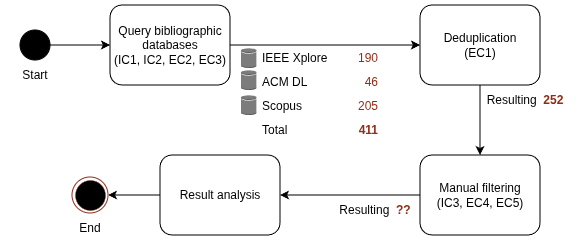
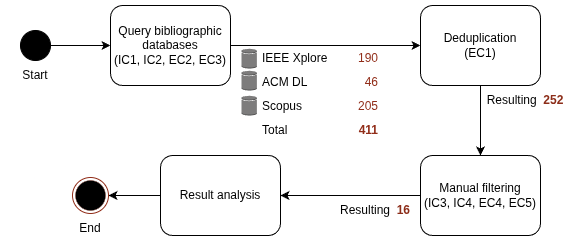
fixed FR's suggestions PDIS delivery

diff --git a/document/body/chapter3.tex b/document/body/chapter3.tex
@@ -1,7 +1,7 @@
 \chapter{State Of The Art} \label{chap:ch3}
 
 In this chapter, we analyse the current state of the art described
-by the documents gathered in the literature review (Chapter \ref{chap:ch2}).
+by the documents gathered in the literature review (Chapter~\ref{chap:ch2}).
 We will review different approaches and techniques applied in Edge and \ac{IoT}
 environments to achieve a better performance when executing \ac{ML} inference 
 tasks. In particular,
@@ -13,27 +13,31 @@ communication methods.
     
 \section{System Network Layouts} \label{sec:se31}
 
+Firstly, we will analyse how the proposed frameworks make use of different system 
+layouts to achieve collaborative inference in edge and far-edge devices. We will
+classify them into two main categories, according to their system layout:
+Model Bi-Partitioning and Model Local Partitioning.
 
-\subsection{Multi-Model Partitioning} \label{sec:se311}
+% \subsection{Multi-Model Partitioning} \label{sec:se311}
 
-Rather than focusing on partitioning a single monolithic model, these
-frameworks deploy differently sized \ac{ML} models throughout several
-hierarchies of devices according to their computational capabilities (i.e.
-deploying smaller models closer to the edge and bigger and more capable
-ones closer to the cloud).
+% Rather than focusing on partitioning a single monolithic model, these
+% frameworks deploy differently sized \ac{ML} models throughout several
+% hierarchies of devices according to their computational capabilities (i.e.
+% deploying smaller models closer to the edge and bigger and more capable
+% ones closer to the cloud).
 
-\begin{description}[style=unboxed, leftmargin=1cm, font=\bfseries]
+% \begin{description}[style=unboxed, leftmargin=1cm, font=\bfseries]
 
-    \item[N/A] No articles were reviewed yet in this category.
+%     \item[N/A] No articles were reviewed yet in this category.
 
-\end{description}
+% \end{description}
 
 
 \subsection{Model Bi-Partitioning} \label{sec:se312}
 
-The approaches reviewed in this category are based on processing an initial 
-portion of the inference task on devices closer to the end-user and the 
-remaining portion on one or more devices on a higher layer, 
+The approaches reviewed in this category divide the work load in two, deploying 
+the initial portion of the inference task to devices closer to the end-user and 
+the remaining portion to one or more devices on a higher hierarchical layer, 
 further away from the end-user device.
 
 \begin{description}[style=unboxed, leftmargin=1cm, font=\bfseries]
@@ -47,7 +51,9 @@ further away from the end-user device.
     framework to estimate the time needed for each device on each step of the 
     model. The framework then employs a differentiable search algorithm 
     to find optimal inference strategies for allocating \ac{DNN} tasks to the 
-    computing devices.   
+    computing devices. Even though this framework deploys successfully a
+    partitioned model between an end device and an edge server, it is limited
+    to two-device networks.  
 
     \item[DINA \cite{t_mohammed_distributed_2020}]
     is a framework that relies on fog nodes to partition inference tasks into
@@ -124,6 +130,7 @@ to the cloud.
 
 \end{description}
 
+%TODO acabar conclusão de system layouts (incluir ref à tabela)
 To better standardize the following synthesis, we will recognize previously 
 referred user, end devices and similarly constrained devices as our definition 
 of far-edge devices. Likewise, the intermediate devices, placed higher in the
@@ -158,10 +165,10 @@ CAS \cite{wang_context-aware_2021} & Model Local Partitioning & Edge Devices & G
 
 In a distributed system, the orchestration and management of every node of a
 given network is of utmost importance. Since we are reviewing collaborative
-frameworks, for the next subsection, we will be analysing how the presented 
-frameworks strategize the scheduling and communications between their devices.
-Furthermore, the frameworks will be separated into two classes, heuristical 
-and reinforcement learning scheduling approaches.
+frameworks, we will be analysing how the presented frameworks strategize the 
+scheduling and communications between their devices. Furthermore, the frameworks 
+will be separated into two classes, heuristical and reinforcement learning 
+scheduling approaches.
 
 \subsection{Heuristical Approach} \label{sec:se321}
 
@@ -181,7 +188,8 @@ chosen and how the network is managed.
     even if lighter on the data. All the devices' constraints
     are gathered in a previous stage and taken into account. Network conditions
     are monitored in real-time, allowing the framework to strive for an optimal
-    partitioning and deployment, adapting to network changes. 
+    partitioning and deployment, adapting to network changes, such as device power 
+    and network bandwidth fluctuations, as well as user requirement of latency. 
 
     \item [CoFANN \cite{tran-van_cofann_2025}]
     is a minimalist framework, in regards to network management, taking only
@@ -190,9 +198,9 @@ chosen and how the network is managed.
     created from
     factors in the inference process. To minimize the data transfer, the initial
     raw data is processed in the end device and condensed as an intermediate 
-    feature tensor to be wirelessly transmitted to an edge server. The result is
-    then sent back to the end device to be logged. 
-    %TODO rever separação layout/flow vs network management 
+    feature tensor to be wirelessly transmitted to an edge server.
+    %TODO rever separação layout/flow vs network management
+    % FR não comentou
 
 
     \item[DINA \cite{t_mohammed_distributed_2020}]
@@ -207,10 +215,12 @@ chosen and how the network is managed.
     relies on device placement to assign the model partitions to the devices.
     The feature extractor segment of the \ac{CNN} models is distributed along the
     network, while the classifier, as it requires less computation, is assigned to
-    a singular device. Intermediate inference results are exchanged between devices
-    through a wireless link, using a "OFDMA-based wireless transmission model".
+    a singular device, given it has sufficient available memory for the corresponding
+    weights. Intermediate inference results are exchanged between devices
+    through a wireless link, using a "OFDMA\footnote{Orthogonal Frequency-Division 
+    Multiple Access}-based wireless transmission model",
+    allowing for a higher throughput.
     This solution assumes that the pipeline supports asynchronous communication.
-    %rever OFDMA (citação/sigla)
 
     \item[\textcite{w_miao_adaptive_2020}]
     minimizes the inference time relying on estimations of the computing time
@@ -241,6 +251,8 @@ to a greater extent.
 
 \end{description}
 
+%TODO conclusões de network management (c/ tabela)
+
 \begin{table}[ht]
 \centering
 \begin{tabularx}{\textwidth}{|l|Y|Y|Y|Y|}
@@ -267,10 +279,11 @@ DINA \cite{t_mohammed_distributed_2020} & Heuristical & Inference Time, Resource
 \section{Final Remarks}
 
 %TODO conclusões gerais do SOTA 
+%TODO incluir problema/limitação de cada framework (na tabela?)
 
 \begin{table}[ht]
 \centering
-\begin{tabularx}{\textwidth}{|l|X|X|}
+\begin{tabularx}{\textwidth}{|p{2.5cm}|X|X|}
 \hline
 \textbf{Strategy} & \multicolumn{1}{c|}{\textbf{Overview}} & \multicolumn{1}{c|}{\textbf{Relevant Aspects}} \\
 \hline
@@ -280,8 +293,9 @@ CAS \cite{wang_context-aware_2021}
     inference with low latency withstanding network fluctuations. Deployed on
     edge devices, avoiding reliance on large computing resources.
 &  
-    Proposal for a network context-aware partitioning system, adapting to network
-    changes in real-time.
+    \begin{itemize}[noitemsep, topsep=0pt, leftmargin=*]
+        \item Deployed partition responsiveness to network changes in real-time.
+    \end{itemize}
 \\
 \hline
 CoFANN \cite{tran-van_cofann_2025} 
@@ -290,8 +304,10 @@ CoFANN \cite{tran-van_cofann_2025}
     initial inference. The framework relies on only two devices, one on-site and
     one edge server. 
 &  
-    Employment of a gradient descent based search algorithm to detect the optimal
-    inference strategy, to minimize latency and data transfer.  
+    \begin{itemize}[noitemsep, topsep=0pt, leftmargin=*]
+        \item Employment of a gradient descent based search algorithm to detect the optimal
+        inference strategy, to minimize latency and data transfer.  
+    \end{itemize}
 \\
 \hline
 DINA \cite{t_mohammed_distributed_2020} 
@@ -300,9 +316,11 @@ DINA \cite{t_mohammed_distributed_2020}
     Deploys partitioned \ac{DNN} models with \ac{DAG} topologies to homogeneous
     devices. Adapts to reduce execution time in varying network conditions.
 &  
-    Extension of a local inference task to a distributed edge device network.
-    Partition and compression techniques for \ac{CNN} models.
-    Matching theory for scheduling purposes.
+    \begin{itemize}[noitemsep, topsep=0pt, leftmargin=*]
+        \item Extension of a local inference task to a distributed edge device network.
+        \item Partition and compression techniques for \ac{CNN} models.
+        \item Matching theory for scheduling purposes.
+    \end{itemize}
 \\
 \hline
 \textcite{ma_joint_2025} 
@@ -312,8 +330,10 @@ DINA \cite{t_mohammed_distributed_2020}
     relies on a \ac{DRL}-based algorithm to optimize resource assignment and
     partitioning point.
 &  
-    Use of early-exit mechanisms to reduce energy consumption and latency.
-    \ac{DRL}-based scheduling approach using \ac{PPO} algorithm.
+    \begin{itemize}[noitemsep, topsep=0pt, leftmargin=*]
+        \item Use of early-exit mechanisms to reduce energy consumption and latency.
+        \item \ac{DRL}-based scheduling approach using \ac{PPO} algorithm.
+    \end{itemize}
 \\
 \hline
 \textcite{p_dai_joint_2025} 
@@ -323,8 +343,10 @@ DINA \cite{t_mohammed_distributed_2020}
     capabilities. The framework has been shown to be a highly scalable,
     robust and efficient solution.
 & 
-    Partition and parallelization techniques for \ac{CNN} models.
-    Device placement and network topology considerations for scheduling. 
+    \begin{itemize}[noitemsep, topsep=0pt, leftmargin=*]
+        \item Partition and parallelization techniques for \ac{CNN} models.
+        \item Device placement and network topology considerations for scheduling. 
+    \end{itemize}
 \\
 \hline
 \textcite{w_miao_adaptive_2020} 
@@ -334,7 +356,9 @@ DINA \cite{t_mohammed_distributed_2020}
     adapts to heterogeneous devices, balancing the load between them to
     minimize the overall inference time.
 & 
-    Load balancing approach for heterogeneous devices.
+    \begin{itemize}[noitemsep, topsep=0pt, leftmargin=*]
+        \item Load balancing approach for heterogeneous devices.
+    \end{itemize}
 \\
 \hline
 \end{tabularx}

diff --git a/document/body/chapter4.tex b/document/body/chapter4.tex
@@ -3,21 +3,23 @@
 \section{Approach} \label{sec:se41}
 
 After analyzing the state of the art on model partitioning and \ac{ML} 
-orchestration in edge computing, we found a lack of adaptation of models
-with cyclic topology (e.g., \acp{RNN}, MobileNets, etc.) to the edge
-environment. Additionally, current frameworks tend to make use of less
-constrained devices and use more powerful and even less constrained
-devices in the later stages of the inference tasks, which may not be the
-most optimal approach in a network where the devices lay closer together.
+orchestration in edge computing, we found that current frameworks tend to 
+make use of less constrained devices and use more powerful and even less 
+constrained devices only in the later stages of the inference tasks, which may 
+not be the most optimal approach in a network where the devices lay closer 
+together. Additionally, there is a lack of available partitioning methods 
+tackling models with cyclic topology (e.g., \acp{RNN}, MobileNets, etc.) to 
+the edge environment.
 
 To address these issues, we propose a novel model partitioning framework for 
 efficient integration of edge devices within far-edge device networks, enabling 
 collaborative inference in highly constrained environments. The framework primarily 
-leverages the densely deployed far-edge devices, with minimal reliance on more 
-capable edge devices. Unlike typical edge deployments that distribute work across 
-heterogeneous and geographically dispersed nodes, this approach targets networks 
-where devices are in close physical proximity, creating a more challenging but 
-realistic scenario for far-edge computing.
+leverages the densely interconnected deployed far-edge devices, with minimal 
+reliance on more capable edge devices. Unlike typical edge deployments that 
+distribute work across heterogeneous nodes separated by non-negligible 
+communication delays, this approach targets networks where devices experience 
+negligible communication delays, creating a more challenging but realistic 
+scenario for far-edge computing.
 Additionally, the framework can exploit the cyclic topology of certain \ac{ML} 
 models (e.g., \acp{RNN}), enabling device reuse across multiple inference stages. 
 By leveraging the recurrent nature of these models, individual devices can process 
@@ -37,7 +39,7 @@ scenario, forming a fully-connected graph of 16 nodes.
 The metrics for evaluation will include inference latency, energy consumption, and
 memory usage per device. We will then compare the performance of our proposed
 framework against the state of the art model partitioning frameworks that we
-analysed in Chapter \ref{chap:ch3}.
+analysed in Chapter~\ref{chap:ch3}.
 
 \section{Expected Results} \label{sec:se43}
 
@@ -69,11 +71,13 @@ The project is planned to be executed over a period of 5 months, resulting in
     selected devices, ensuring correct functionality and efficient communication
     between them.
     
-    \item[Partitioning Subprocedure Implementation (Weeks 7-12):]
-    This task focuses on implementing the core partitioning algorithm that will divide
+    \item[Partitioning Subprocedure Integration (Weeks 7-12):]
+    This task focuses on integrating a core partitioning algorithm, chosen from 
+    an existing framework reviewed in chapter~\ref{chap:ch3}, that will divide
     the \ac{DNN} models into lightweight segments suitable for the constrained 
-    devices in the network. Ideally, this subprocedure will take into account the 
-    cyclic topology of certain models to optimize the partitioning process.
+    devices in the network. Ideally, this subprocedure will be extended to take 
+    into account the cyclic topology of certain models to optimize the partitioning 
+    process.
     
     \item[Testing and Evaluation (Weeks 12-14):]
     During these weeks, we will conduct extensive testing of the deployed framework,
@@ -92,14 +96,24 @@ The first three tasks represent the milestone corresponding to the MVP of the
 project, expected to be completed by the end of week 12. The testing and evaluation
 task will provide the necessary data to analyze the performance of the proposed
 framework, while the dissertation elaboration task will ensure that the findings
-are well-documented and presented. 
+are well-documented and presented. The workflow can be better visualized in the Gantt
+chart shown in Figure~\ref{fig:gantt}. It should be noted that the weeks corresponding
+to the Easter break and Academic Week are not taken into account in this timeline.
+
+\begin{figure}[H]
+  \centering
+  \includegraphics[width=1\textwidth]{approach-gantt.png}
+  \caption{Gantt chart representing the project plan and timeline.}
+  \label{fig:gantt}
+\end{figure}
 
 \section{Conclusions} \label{sec:se45}
 
-This chapter proposes a novel framework for efficient integration of edge devices
-within far-edge device networks, enabling collaborative inference in highly 
-constrained environments. Additionally, the framework extends support to 
-\ac{DNN} models with cyclic topology through device reuse across inference stages.
-This marks a significant advancement in the field of edge computing and \ac{IoT}, 
-opening new possibilities for applications that require real-time processing and 
-low latency.
+This chapter proposes a novel framework to efficiently execute collaborative 
+inference tasks,
+excelling in the integration of edge devices within a far-edge device network and 
+managing to make use of highly constrained devices. Additionally, the framework 
+extends support to \ac{DNN} models with cyclic topology through device reuse across 
+inference stages. This marks a significant advancement in the field of edge computing
+and \ac{IoT}, opening new possibilities for applications that require real-time 
+processing and low latency.

diff --git a/document/body/chapter2.tex b/document/body/chapter2.tex
@@ -1,5 +1,14 @@
 \chapter{Literature Review} \label{chap:ch2}
 
+This chapter investigates existing research on deploying \ac{DNN} models 
+on edge and far-edge devices through a systematic literature review. We 
+examine three main areas: model partitioning and split inference, \ac{ML} 
+orchestration and scheduling in edge computing, and computational offloading 
+for \ac{ML} inference. The chapter details the search methodology, including the
+search strategy and inclusion/exclusion criteria, and 
+presents the results, establishing the current state of the art in these fields.
+
+
 \section{Introduction}\label{sec:se21}
 
 This literature review followed \textcite{Kitchenham2009}'s 
@@ -20,12 +29,19 @@ included and examined in this context of this work.
 
 
 \section{Review Methodology}\label{sec:se22}
+
+To ensure replicability and rigor, the following subsections describe the 
+methodology employed to retrieve relevant studies. Particular emphasis is 
+placed on the search strategy, including the search queries used, and the 
+criteria applied for filtering results.
+
+
 \subsection{Search Strategy} \label{sec:se221}
 
 There were three digital libraries used to search for relevant articles:
-the IEEE Xplore Digital Library \footnote{\url{https://ieeexplore.ieee.org/Xplore/home.jsp}} and the ACM Digital
-Library \footnote{\url{https://dl.acm.org/}} as the main sources of specialized
-literature on the subject, and Scopus \footnote{\url{https://www.scopus.com/}} as a broader database
+the IEEE Xplore Digital Library\footnote{\url{https://ieeexplore.ieee.org/Xplore/home.jsp}} and the ACM Digital
+Library\footnote{\url{https://dl.acm.org/}} as the main sources of specialized
+literature on the subject, and Scopus\footnote{\url{https://www.scopus.com/}} as a broader database
 to cover any gaps that could arise.
 
 To accomplish this search, the following search strings were built,
@@ -49,15 +65,16 @@ exclude the documents found:
         \toprule
         \textbf{Type} & \textbf{ID} & \textbf{Criteria} \\
         \midrule
-        \multirow{3}{*}{\rotatebox{90}{Inclusion}} 
+        \multirow{4.5}{*}{\rotatebox{90}{Inclusion}} 
         & IC1 & The publication is in an adequate document type. \\
-        & IC2 & Date of publication since 2018 (inclusive) \\
-        & IC3 & The publication focuses on IoT/Edge Computing environments \\
+        & IC2 & Date of publication since 2018 (inclusive). \\
+        & IC3 & The publication addresses constrained devices. \\
+        & IC4 & The publication discusses network deployment or topics pertinent to it. \\
         \midrule
         \multirow{5.5}{*}{\rotatebox{90}{Exclusion}} 
-        & EC1 & It is a duplicate result \\
-        & EC2 & Full-text is not available \\
-        & EC3 & The publication is not English \\
+        & EC1 & It is a duplicate result. \\
+        & EC2 & Full-text is not available. \\
+        & EC3 & The publication is not English. \\
         & EC4 & The publication does not focus on cloud computing. \\
         & EC5 & The publication does not focus on high-performance device usage. \\
         \bottomrule
@@ -105,7 +122,7 @@ and exclusion criteria.
 \caption{Number of documents found per topic and digital library.}\label{tab:lr_lib}
 \end{table}
 
-After applying the inclusion and exclusion criteria, a total of ?? documents %TODO correct
+After applying the inclusion and exclusion criteria, a total of 16 documents %TODO corrigir
 were included for further analysis and serve as basis for this work.
 Figure \ref{fig:lr_screening} illustrates the flow that documents went through
 during the screening process.

diff --git a/document/body/chapter1.tex b/document/body/chapter1.tex
@@ -1,5 +1,8 @@
 \chapter{Introduction} \label{chap:intro}
 
+%TODO separar contexto de motivação: 
+%deixar contexto aqui e motivação na secção abaixo
+
 \section{Context} \label{sec:context}
 
 For the last couple of years, the field of \ac{ML}, and, in 
